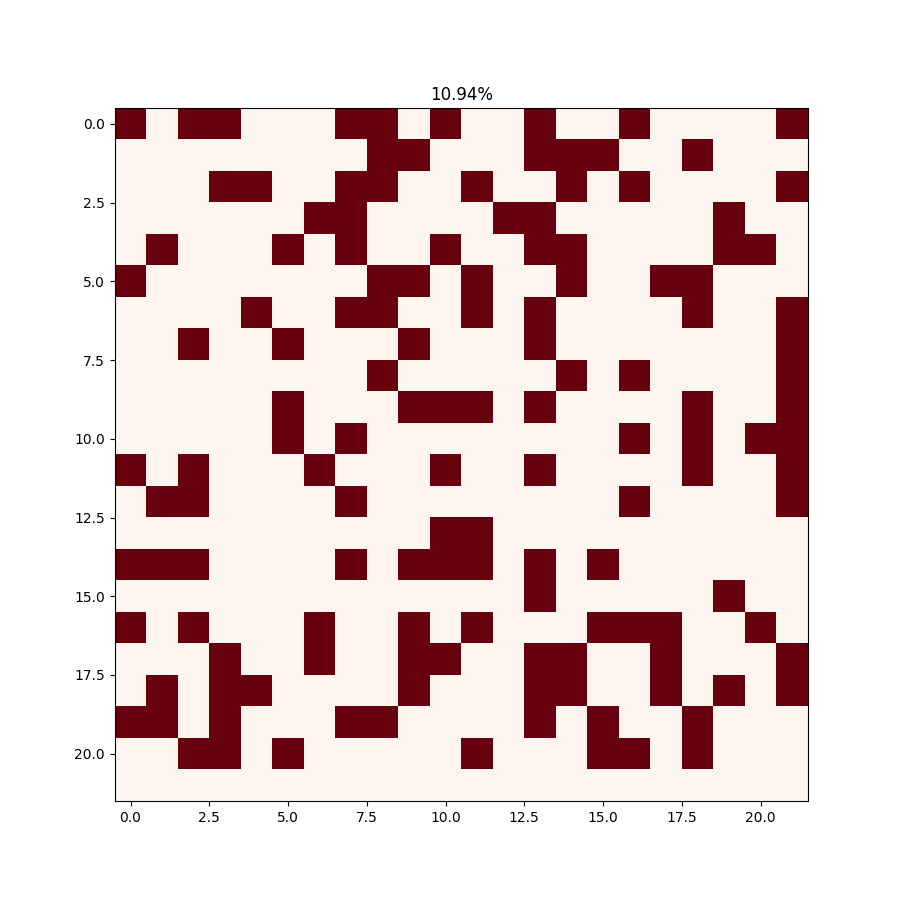
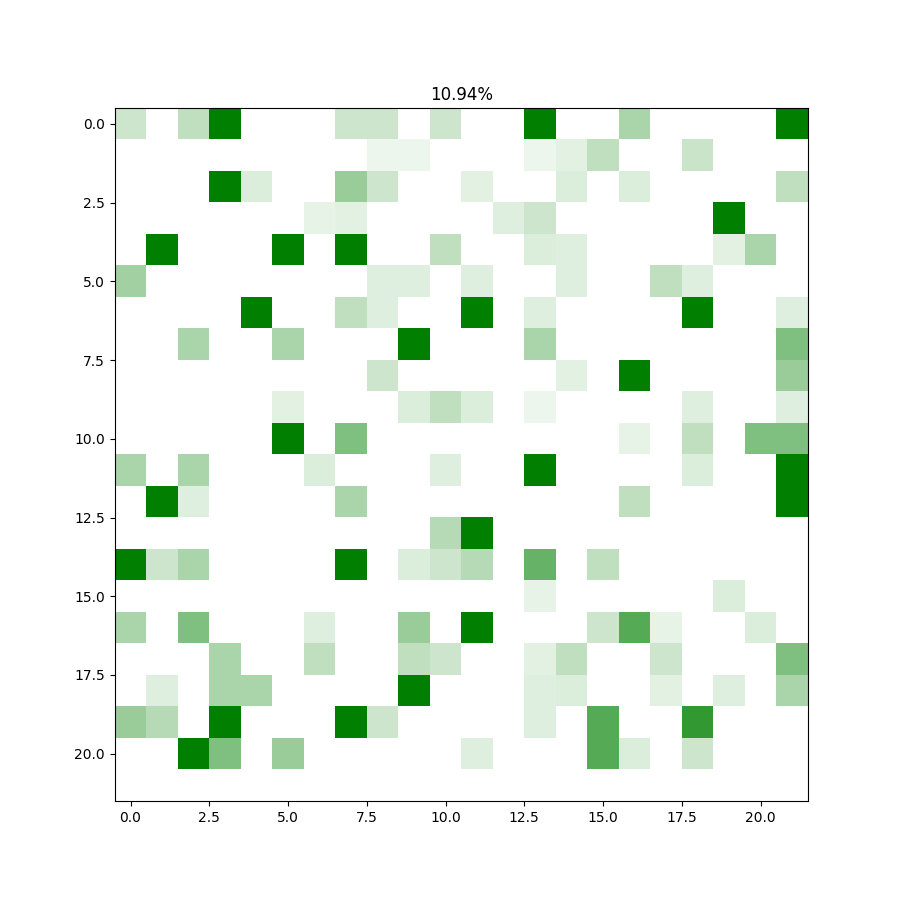
Updated colors and added green view

diff --git a/core/analysis/results_plotter.py b/core/analysis/results_plotter.py
@@ -1,8 +1,11 @@
 import matplotlib.pyplot as plt
 import numpy as np
+from  matplotlib.colors import LinearSegmentedColormap
 
 
-def plot_results(res, color_min=0, color_max=5, cmap='Reds'):
+def plot_results(res, color_min=None, color_max=None, cmap=None):
+    if cmap is None:
+        cmap = LinearSegmentedColormap.from_list('rg',["w", "g"], N=256)
     plt.figure(figsize=(9,9))
     a = np.array(res)
     ns = np.ceil(np.sqrt(len(res))).astype(int)

diff --git a/analysis/show_results_pdf2info.py b/analysis/show_results_pdf2info.py
@@ -12,4 +12,4 @@ if __name__ == '__main__':
     res, res_percentage = check_results(csv_folder, gth)
     # res into list
     results = res_percentage
-    plot_results(results)
+    plot_results(results, color_min=0, color_max=100)
